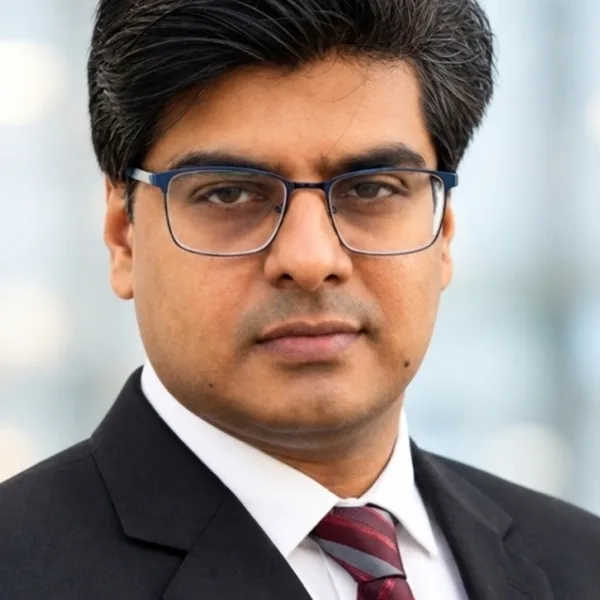
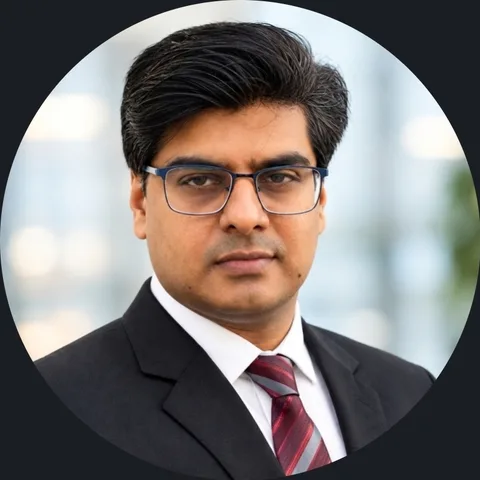
Team: centred three-card stack, round photos, new order
Claude-Session: https://claude.ai/code/session_01AbE5ecc2Cn8vJ6Anzxiuye

diff --git a/forgehype-qa/index.html b/forgehype-qa/index.html
@@ -21,7 +21,7 @@
 <link rel="preconnect" href="https://fonts.googleapis.com">
 <link rel="preconnect" href="https://fonts.gstatic.com" crossorigin>
 <link href="https://fonts.googleapis.com/css2?family=Bricolage+Grotesque:opsz,wght@12..96,300;12..96,500;12..96,600;12..96,700&family=Manrope:wght@400;500;600&family=Geist+Mono:wght@400;500&display=swap" rel="stylesheet">
-<link rel="stylesheet" href="assets/css/main.css?v=20261025k">
+<link rel="stylesheet" href="assets/css/main.css?v=20261025l">
 <script>document.documentElement.classList.add("js")</script>
 <script type="application/ld+json">
 {"@context": "https://schema.org", "@type": "ProfessionalService", "@id": "https://forgehype.qa/#business", "name": "ForgeHype", "legalName": "ForgeHype website and Management consultancy W.L.L.", "url": "https://forgehype.qa/", "logo": "https://forgehype.qa/assets/img/brand/logo.png", "image": "https://forgehype.qa/assets/img/og.jpg", "description": "Website design and digital growth consultancy in Doha, Qatar: websites and e-commerce, website content and brand media, SEO and AI visibility audits, automation and AI consultancy, brand identity and monthly growth advisory.", "telephone": "+97455879325", "email": "info@forgehype.qa", "foundingDate": "2026-10-12", "address": {"@type": "PostalAddress", "streetAddress": "Building 66, Street 950, Zone 24", "addressLocality": "Doha", "addressCountry": "QA"}, "areaServed": {"@type": "Country", "name": "Qatar"}, "sameAs": ["https://www.instagram.com/forgehypeqatar/"], "knowsLanguage": ["en", "ar"]}
@@ -265,17 +265,17 @@
       <p class="lowkey">Our team brings 14 years of GCC media production experience.</p>
     </div>
     <ul class="team-track" id="teamTrack" tabindex="0" aria-roledescription="carousel" aria-label="ForgeHype team. Swipe or use the arrow keys.">
-        <li class="tcard" data-pos="0"><figure><img src="assets/img/team/farzana-husain.webp?v=2" alt="Farzana Husain, Managing Director, ForgeHype" width="480" height="480" loading="lazy" decoding="async"><figcaption><span class="m-name">Farzana Husain</span><span class="m-role">Managing Director</span></figcaption></figure></li>
-        <li class="tcard" data-pos="1"><figure><img src="assets/img/team/adnan-mohammad.webp?v=2" alt="Adnan Mohammad, Creative Director, ForgeHype" width="480" height="480" loading="lazy" decoding="async"><figcaption><span class="m-name">Adnan Mohammad</span><span class="m-role">Creative Director</span></figcaption></figure></li>
-        <li class="tcard" data-pos="2"><figure><img src="assets/img/team/nishat-tasnim.webp?v=2" alt="Nishat Tasnim, Operations Lead, ForgeHype" width="480" height="480" loading="lazy" decoding="async"><figcaption><span class="m-name">Nishat Tasnim</span><span class="m-role">Operations Lead</span></figcaption></figure></li>
-        <li class="tcard" data-pos="2"><figure><img src="assets/img/team/tahrima-tony.webp?v=2" alt="Tahrima Tony, Lead Motion Designer, ForgeHype" width="480" height="480" loading="lazy" decoding="async"><figcaption><span class="m-name">Tahrima Tony</span><span class="m-role">Lead Motion Designer</span></figcaption></figure></li>
-        <li class="tcard" data-pos="2"><figure><img src="assets/img/team/sharia-tasnim.webp?v=2" alt="Sharia Tasnim, Lead Editor, ForgeHype" width="480" height="480" loading="lazy" decoding="async"><figcaption><span class="m-name">Sharia Tasnim</span><span class="m-role">Lead Editor</span></figcaption></figure></li>
-        <li class="tcard" data-pos="2"><figure><img src="assets/img/team/anjum-akter.webp?v=2" alt="Anjum Akter, Lead, Growth and Engagement, ForgeHype" width="480" height="480" loading="lazy" decoding="async"><figcaption><span class="m-name">Anjum Akter</span><span class="m-role">Lead, Growth &amp; Engagement</span></figcaption></figure></li>
-        <li class="tcard" data-pos="2"><figure><img src="assets/img/team/rakib-ahmad.webp?v=2" alt="Rakib Ahmad, Lead Video Editor, ForgeHype" width="480" height="480" loading="lazy" decoding="async"><figcaption><span class="m-name">Rakib Ahmad</span><span class="m-role">Lead Video Editor</span></figcaption></figure></li>
-        <li class="tcard" data-pos="2"><figure><span class="tc-initial" aria-hidden="true">N</span><figcaption><span class="m-name">Naim</span><span class="m-role">Lead, SEO &amp; AI Search</span></figcaption></figure></li>
-        <li class="tcard" data-pos="-1"><figure><img src="assets/img/team/arifur-rahman.webp?v=2" alt="Arifur Rahman, AI Agent and Automation Consultant, ForgeHype" width="480" height="480" loading="lazy" decoding="async"><figcaption><span class="m-name">Arifur Rahman</span><span class="m-role">AI Agent &amp; Automation Consultant</span></figcaption></figure></li>
+        <li class="tcard" data-pos="0"><figure><span class="tc-photo"><img src="assets/img/team/farzana-husain.webp?v=3" alt="Farzana Husain, Managing Director, ForgeHype" width="480" height="480" loading="lazy" decoding="async"></span><figcaption><span class="m-name">Farzana Husain</span><span class="m-role">Managing Director</span></figcaption></figure></li>
+        <li class="tcard" data-pos="1"><figure><span class="tc-photo"><img src="assets/img/team/adnan-mohammad.webp?v=3" alt="Adnan Mohammad, Creative Director, ForgeHype" width="480" height="480" loading="lazy" decoding="async"></span><figcaption><span class="m-name">Adnan Mohammad</span><span class="m-role">Creative Director</span></figcaption></figure></li>
+        <li class="tcard" data-pos="2"><figure><span class="tc-photo"><img src="assets/img/team/sharia-tasnim.webp?v=3" alt="Sharia Tasnim, Lead Editor, ForgeHype" width="480" height="480" loading="lazy" decoding="async"></span><figcaption><span class="m-name">Sharia Tasnim</span><span class="m-role">Lead Editor</span></figcaption></figure></li>
+        <li class="tcard" data-pos="2"><figure><span class="tc-photo"><img src="assets/img/team/tahrima-tony.webp?v=3" alt="Tahrima Tony, Lead Motion Designer, ForgeHype" width="480" height="480" loading="lazy" decoding="async"></span><figcaption><span class="m-name">Tahrima Tony</span><span class="m-role">Lead Motion Designer</span></figcaption></figure></li>
+        <li class="tcard" data-pos="2"><figure><span class="tc-photo"><img src="assets/img/team/rakib-ahmad.webp?v=3" alt="Rakib Ahmad, Lead Video Editor, ForgeHype" width="480" height="480" loading="lazy" decoding="async"></span><figcaption><span class="m-name">Rakib Ahmad</span><span class="m-role">Lead Video Editor</span></figcaption></figure></li>
+        <li class="tcard" data-pos="-2"><figure><span class="tc-photo"><img src="assets/img/team/anjum-akter.webp?v=3" alt="Anjum Akter, Lead, Growth and Engagement, ForgeHype" width="480" height="480" loading="lazy" decoding="async"></span><figcaption><span class="m-name">Anjum Akter</span><span class="m-role">Lead, Growth &amp; Engagement</span></figcaption></figure></li>
+        <li class="tcard" data-pos="-2"><figure><span class="tc-photo"><img src="assets/img/team/nishat-tasnim.webp?v=3" alt="Nishat Tasnim, Operations Lead, ForgeHype" width="480" height="480" loading="lazy" decoding="async"></span><figcaption><span class="m-name">Nishat Tasnim</span><span class="m-role">Operations Lead</span></figcaption></figure></li>
+        <li class="tcard" data-pos="-2"><figure><span class="tc-photo"><span class="tc-initial" aria-hidden="true">N</span></span><figcaption><span class="m-name">Naim</span><span class="m-role">Lead, SEO &amp; AI Search</span></figcaption></figure></li>
+        <li class="tcard" data-pos="-1"><figure><span class="tc-photo"><img src="assets/img/team/arifur-rahman.webp?v=3" alt="Arifur Rahman, AI Agent and Automation Consultant, ForgeHype" width="480" height="480" loading="lazy" decoding="async"></span><figcaption><span class="m-name">Arifur Rahman</span><span class="m-role">AI Agent &amp; Automation Consultant</span></figcaption></figure></li>
     </ul>
-    <div class="team-dots"><button type="button" class="team-dot on" aria-label="Show Farzana Husain"></button><button type="button" class="team-dot" aria-label="Show Adnan Mohammad"></button><button type="button" class="team-dot" aria-label="Show Nishat Tasnim"></button><button type="button" class="team-dot" aria-label="Show Tahrima Tony"></button><button type="button" class="team-dot" aria-label="Show Sharia Tasnim"></button><button type="button" class="team-dot" aria-label="Show Anjum Akter"></button><button type="button" class="team-dot" aria-label="Show Rakib Ahmad"></button><button type="button" class="team-dot" aria-label="Show Naim"></button><button type="button" class="team-dot" aria-label="Show Arifur Rahman"></button></div>
+    <div class="team-dots"><button type="button" class="team-dot on" aria-label="Show Farzana Husain"></button><button type="button" class="team-dot" aria-label="Show Adnan Mohammad"></button><button type="button" class="team-dot" aria-label="Show Sharia Tasnim"></button><button type="button" class="team-dot" aria-label="Show Tahrima Tony"></button><button type="button" class="team-dot" aria-label="Show Rakib Ahmad"></button><button type="button" class="team-dot" aria-label="Show Anjum Akter"></button><button type="button" class="team-dot" aria-label="Show Nishat Tasnim"></button><button type="button" class="team-dot" aria-label="Show Naim"></button><button type="button" class="team-dot" aria-label="Show Arifur Rahman"></button></div>
   </div>
 </section>
 
@@ -559,6 +559,6 @@
 
 <a class="wa-float" id="waFloat" href="https://wa.me/97455879325" target="_blank" rel="noopener" aria-label="WhatsApp us"><svg viewBox="0 0 24 24" fill="none" stroke="currentColor" stroke-width="1.8" stroke-linecap="round" stroke-linejoin="round" aria-hidden="true"><path d="M21 12a9 9 0 0 1-13.3 7.9L3 21l1.1-4.6A9 9 0 1 1 21 12z"/></svg><span class="lbl">WhatsApp us</span></a>
 
-<script src="assets/js/main.js?v=20261025d" defer></script>
+<script src="assets/js/main.js?v=20261025e" defer></script>
 </body>
 </html>

diff --git a/forgehype-qa/assets/css/main.css b/forgehype-qa/assets/css/main.css
@@ -684,28 +684,32 @@ html.js .stack-text .answer:not(.open){display:-webkit-box;-webkit-line-clamp:1;
 }
 @media (prefers-reduced-motion:reduce){.reel{transition:none}}
 
-/* team: gliding square cards, big card left, next one peeking */
+/* team: centred card stack, round photo above, name and title below */
 .team-sec{padding-block:var(--s-6) var(--s-8);overflow-x:clip}
 .team-head{display:grid;gap:var(--s-3);justify-items:start}
-.team-track{--cw:78%;--gap:14px;--s2:.8;position:relative;list-style:none;margin:var(--s-6) 0 0;padding:0;aspect-ratio:100/78;touch-action:pan-y;outline:none;user-select:none;-webkit-user-select:none}
+.team-track{--cw:min(68vw,300px);position:relative;list-style:none;margin:var(--s-6) 0 0;padding:0;height:calc(var(--cw)*4/3 + 24px);touch-action:pan-y;outline:none;user-select:none;-webkit-user-select:none}
 .team-track:focus-visible{outline:2px solid var(--accent);outline-offset:8px;border-radius:28px}
-.tcard{--x:0%;--s:1;position:absolute;left:0;bottom:0;width:var(--cw);aspect-ratio:1;transform-origin:left bottom;transform:translateX(var(--x)) scale(var(--s));opacity:0;transition:transform .95s cubic-bezier(.22,.61,.36,1),opacity .95s cubic-bezier(.22,.61,.36,1)}
-.tcard figure{margin:0;position:relative;width:100%;height:100%;border-radius:24px;overflow:hidden;background:linear-gradient(150deg,#2a211b,#14110f);box-shadow:0 26px 50px -24px rgba(50,25,8,.45)}
-.tcard img{width:100%;height:100%;object-fit:cover;display:block}
-.tcard .tc-initial{position:absolute;inset:0;display:grid;place-items:center;font-family:var(--font-display);font-weight:600;font-size:clamp(4rem,20vw,8rem);color:var(--accent)}
-.tcard figcaption{position:absolute;inset-inline:0;bottom:0;padding:var(--s-6) var(--s-4) var(--s-4);display:grid;gap:.15rem;background:linear-gradient(to top,rgba(10,8,7,.85),rgba(10,8,7,0));color:#fff}
+.tcard{--x:0%;--r:0deg;--s:1;position:absolute;left:50%;top:12px;width:var(--cw);aspect-ratio:3/4;margin-left:calc(var(--cw)/-2);transform:translateX(var(--x)) rotate(var(--r)) scale(var(--s));opacity:0;transition:transform .95s cubic-bezier(.22,.61,.36,1),opacity .95s cubic-bezier(.22,.61,.36,1),filter .95s cubic-bezier(.22,.61,.36,1);cursor:pointer}
+.tcard figure{margin:0;height:100%;display:grid;grid-template-rows:2fr 1fr;border-radius:26px;overflow:hidden;background:#14110f;border:1px solid rgba(255,255,255,.08);box-shadow:0 30px 60px -22px rgba(50,25,8,.5),0 8px 20px -10px rgba(0,0,0,.3)}
+.tc-photo{display:grid;place-items:end center;padding:12% 12% 0;min-height:0}
+.tc-photo img,.tc-photo .tc-initial{width:auto;height:100%;max-width:100%;aspect-ratio:1;border-radius:50%;object-fit:cover;display:block;box-shadow:0 0 0 2px var(--accent)}
+.tc-photo .tc-initial{display:grid;place-items:center;font-family:var(--font-display);font-weight:600;font-size:clamp(3rem,14vw,5rem);color:var(--accent);background:radial-gradient(circle at 50% 40%,#3a2417,#14110f)}
+.tcard figcaption{display:grid;align-content:center;justify-items:center;text-align:center;gap:.25rem;padding:0 var(--s-4);color:#fff}
 .tcard .m-name{font-family:var(--font-display);font-weight:600;font-size:1.25rem;line-height:1.15}
-.tcard .m-role{font-size:var(--fs-sm);color:rgba(255,255,255,.78);line-height:1.3}
-.tcard[data-pos="0"]{opacity:1;z-index:2}
-.tcard[data-pos="1"]{--x:calc(100% + var(--gap));--s:var(--s2);opacity:1;z-index:1}
-.tcard[data-pos="1"] figcaption{opacity:.0}
-.tcard[data-pos="2"]{--x:calc(100% + 100% * var(--s2) + var(--gap) * 2);--s:var(--s2)}
-.tcard[data-pos="-1"]{--x:calc(-100% - var(--gap))}
-.team-dots{display:flex;flex-wrap:wrap;gap:.45rem;margin-block-start:var(--s-5)}
+.tcard .m-role{font-size:var(--fs-sm);color:rgba(255,255,255,.7);line-height:1.3}
+.tcard[data-pos="0"]{opacity:1;z-index:3;cursor:default}
+.tcard[data-pos="1"]{--x:34%;--r:6deg;--s:.86;opacity:.5;z-index:2;filter:saturate(.5) brightness(.8)}
+.tcard[data-pos="-1"]{--x:-34%;--r:-6deg;--s:.86;opacity:.5;z-index:2;filter:saturate(.5) brightness(.8)}
+.tcard[data-pos="2"]{--x:50%;--s:.7;z-index:1}
+.tcard[data-pos="-2"]{--x:-50%;--s:.7;z-index:1}
+.team-dots{display:flex;justify-content:center;flex-wrap:wrap;gap:.45rem;margin-block-start:var(--s-5)}
 .team-dot{width:7px;height:7px;border-radius:50%;border:0;padding:0;background:rgba(20,17,15,.2);cursor:pointer;transition:width .4s,background .4s}
 .team-dot.on{width:22px;border-radius:7px;background:var(--accent)}
 @media (min-width:900px){
-  .team-track{--cw:min(40%,440px);aspect-ratio:auto;height:min(40vw,440px)}
-  .tcard[data-pos="1"] figcaption{opacity:1}
+  .team-track{--cw:300px}
+  .tcard[data-pos="1"]{--x:78%;--r:0deg;--s:.82;opacity:.6}
+  .tcard[data-pos="-1"]{--x:-78%;--r:0deg;--s:.82;opacity:.6}
+  .tcard[data-pos="2"]{--x:120%}
+  .tcard[data-pos="-2"]{--x:-120%}
 }
 @media (prefers-reduced-motion:reduce){.tcard{transition:none}}

diff --git a/forgehype-qa/faq.html b/forgehype-qa/faq.html
@@ -21,7 +21,7 @@
 <link rel="preconnect" href="https://fonts.googleapis.com">
 <link rel="preconnect" href="https://fonts.gstatic.com" crossorigin>
 <link href="https://fonts.googleapis.com/css2?family=Bricolage+Grotesque:opsz,wght@12..96,300;12..96,500;12..96,600;12..96,700&family=Manrope:wght@400;500;600&family=Geist+Mono:wght@400;500&display=swap" rel="stylesheet">
-<link rel="stylesheet" href="assets/css/main.css?v=20261025k">
+<link rel="stylesheet" href="assets/css/main.css?v=20261025l">
 <script>document.documentElement.classList.add("js")</script>
 <script type="application/ld+json">
 {"@context": "https://schema.org", "@graph": [{"@type": "FAQPage", "mainEntity": [{"@type": "Question", "name": "What does ForgeHype do?", "acceptedAnswer": {"@type": "Answer", "text": "Website design and digital growth consultancy: websites and e-commerce, website content and brand media, SEO and AI visibility audits, automation and AI consultancy, brand identity and monthly advisory. We advise and report; your team runs the day-to-day work."}}, {"@type": "Question", "name": "How much does it cost?", "acceptedAnswer": {"@type": "Answer", "text": "Every scope is built around your business, so we quote after the free consultation. No standard packages."}}, {"@type": "Question", "name": "How fast can you deliver content?", "acceptedAnswer": {"@type": "Answer", "text": "Days from brief to delivery, not weeks. From 10 to 60 videos a month."}}, {"@type": "Question", "name": "What does the free consultation cover?", "acceptedAnswer": {"@type": "Answer", "text": "Your website, search presence, content and brand. You get a clear list of what to fix first."}}, {"@type": "Question", "name": "Do you work outside Qatar?", "acceptedAnswer": {"@type": "Answer", "text": "Yes. We are based in Doha and work with clients outside Qatar on Teams and WhatsApp."}}, {"@type": "Question", "name": "Can you automate bookings and replies?", "acceptedAnswer": {"@type": "Answer", "text": "Yes. We plan AI agents for WhatsApp and your website that answer, book, take orders and follow up, connect them to your site, and train your team to run them."}}, {"@type": "Question", "name": "Do you work in Arabic?", "acceptedAnswer": {"@type": "Answer", "text": "Yes. Bilingual sites, menus and content, built right to left where it matters."}}, {"@type": "Question", "name": "What is monthly digital growth advisory?", "acceptedAnswer": {"@type": "Answer", "text": "Each month we review your numbers, research what is working in your market, report clear next steps and train your team."}}]}, {"@type": "BreadcrumbList", "itemListElement": [{"@type": "ListItem", "position": 1, "name": "Home", "item": "https://forgehype.qa/"}, {"@type": "ListItem", "position": 2, "name": "FAQ", "item": "https://forgehype.qa/faq.html"}]}]}

diff --git a/forgehype-qa/services/website-ecommerce.html b/forgehype-qa/services/website-ecommerce.html
@@ -21,7 +21,7 @@
 <link rel="preconnect" href="https://fonts.googleapis.com">
 <link rel="preconnect" href="https://fonts.gstatic.com" crossorigin>
 <link href="https://fonts.googleapis.com/css2?family=Bricolage+Grotesque:opsz,wght@12..96,300;12..96,500;12..96,600;12..96,700&family=Manrope:wght@400;500;600&family=Geist+Mono:wght@400;500&display=swap" rel="stylesheet">
-<link rel="stylesheet" href="../assets/css/main.css?v=20261025k">
+<link rel="stylesheet" href="../assets/css/main.css?v=20261025l">
 <script>document.documentElement.classList.add("js")</script>
 <script type="application/ld+json">
 {"@context": "https://schema.org", "@graph": [{"@type": "Service", "@id": "https://forgehype.qa/services/website-ecommerce.html#service", "name": "Website design and e-commerce", "serviceType": "Website design and e-commerce", "description": "Custom websites and online stores for Qatar businesses, fast on mobile and built to turn visits into enquiries and orders. ForgeHype, Doha.", "url": "https://forgehype.qa/services/website-ecommerce.html", "areaServed": {"@type": "Country", "name": "Qatar"}, "provider": {"@id": "https://forgehype.qa/#business"}}, {"@type": "BreadcrumbList", "itemListElement": [{"@type": "ListItem", "position": 1, "name": "Home", "item": "https://forgehype.qa/"}, {"@type": "ListItem", "position": 2, "name": "Services", "item": "https://forgehype.qa/#services"}, {"@type": "ListItem", "position": 3, "name": "Website design and e-commerce", "item": "https://forgehype.qa/services/website-ecommerce.html"}]}, {"@type": "FAQPage", "mainEntity": [{"@type": "Question", "name": "What does the free consultation cover?", "acceptedAnswer": {"@type": "Answer", "text": "Your website, search presence, content and brand. You get a clear list of what to fix first."}}, {"@type": "Question", "name": "How much does it cost?", "acceptedAnswer": {"@type": "Answer", "text": "Every scope is built around your business, so we quote after the free consultation. No standard packages."}}, {"@type": "Question", "name": "What is monthly support?", "acceptedAnswer": {"@type": "Answer", "text": "Monthly digital growth advisory: we review your numbers, research what is working, report clear next steps and train your team."}}, {"@type": "Question", "name": "What does ForgeHype do?", "acceptedAnswer": {"@type": "Answer", "text": "Website design and digital growth consultancy: websites and e-commerce, website content and brand media, SEO and AI visibility audits, automation and AI consultancy, brand identity and monthly advisory. We advise and report; your team runs the day-to-day work."}}]}]}

diff --git a/forgehype-qa/services/brand-media-kit.html b/forgehype-qa/services/brand-media-kit.html
@@ -21,7 +21,7 @@
 <link rel="preconnect" href="https://fonts.googleapis.com">
 <link rel="preconnect" href="https://fonts.gstatic.com" crossorigin>
 <link href="https://fonts.googleapis.com/css2?family=Bricolage+Grotesque:opsz,wght@12..96,300;12..96,500;12..96,600;12..96,700&family=Manrope:wght@400;500;600&family=Geist+Mono:wght@400;500&display=swap" rel="stylesheet">
-<link rel="stylesheet" href="../assets/css/main.css?v=20261025k">
+<link rel="stylesheet" href="../assets/css/main.css?v=20261025l">
 <script>document.documentElement.classList.add("js")</script>
 <script type="application/ld+json">
 {"@context": "https://schema.org", "@graph": [{"@type": "Service", "@id": "https://forgehype.qa/services/brand-media-kit.html#service", "name": "Brand identity and media kits", "serviceType": "Brand identity and media kits", "description": "One consistent identity across everything customers see and hold: logo, colours, menus, catalogs, packaging and a brand guide. ForgeHype, Doha.", "url": "https://forgehype.qa/services/brand-media-kit.html", "areaServed": {"@type": "Country", "name": "Qatar"}, "provider": {"@id": "https://forgehype.qa/#business"}}, {"@type": "BreadcrumbList", "itemListElement": [{"@type": "ListItem", "position": 1, "name": "Home", "item": "https://forgehype.qa/"}, {"@type": "ListItem", "position": 2, "name": "Services", "item": "https://forgehype.qa/#services"}, {"@type": "ListItem", "position": 3, "name": "Brand identity and media kits", "item": "https://forgehype.qa/services/brand-media-kit.html"}]}, {"@type": "FAQPage", "mainEntity": [{"@type": "Question", "name": "What does the free consultation cover?", "acceptedAnswer": {"@type": "Answer", "text": "Your website, search presence, content and brand. You get a clear list of what to fix first."}}, {"@type": "Question", "name": "How much does it cost?", "acceptedAnswer": {"@type": "Answer", "text": "Every scope is built around your business, so we quote after the free consultation. No standard packages."}}, {"@type": "Question", "name": "What is monthly support?", "acceptedAnswer": {"@type": "Answer", "text": "Monthly digital growth advisory: we review your numbers, research what is working, report clear next steps and train your team."}}, {"@type": "Question", "name": "What does ForgeHype do?", "acceptedAnswer": {"@type": "Answer", "text": "Website design and digital growth consultancy: websites and e-commerce, website content and brand media, SEO and AI visibility audits, automation and AI consultancy, brand identity and monthly advisory. We advise and report; your team runs the day-to-day work."}}]}]}

diff --git a/forgehype-qa/services/search-ai-visibility.html b/forgehype-qa/services/search-ai-visibility.html
@@ -21,7 +21,7 @@
 <link rel="preconnect" href="https://fonts.googleapis.com">
 <link rel="preconnect" href="https://fonts.gstatic.com" crossorigin>
 <link href="https://fonts.googleapis.com/css2?family=Bricolage+Grotesque:opsz,wght@12..96,300;12..96,500;12..96,600;12..96,700&family=Manrope:wght@400;500;600&family=Geist+Mono:wght@400;500&display=swap" rel="stylesheet">
-<link rel="stylesheet" href="../assets/css/main.css?v=20261025k">
+<link rel="stylesheet" href="../assets/css/main.css?v=20261025l">
 <script>document.documentElement.classList.add("js")</script>
 <script type="application/ld+json">
 {"@context": "https://schema.org", "@graph": [{"@type": "Service", "@id": "https://forgehype.qa/services/search-ai-visibility.html#service", "name": "SEO and AI visibility audits", "serviceType": "SEO and AI visibility audits", "description": "Audits of your website, Google profile and listings, with a clear report your team can act on to get found on Google and AI.", "url": "https://forgehype.qa/services/search-ai-visibility.html", "areaServed": {"@type": "Country", "name": "Qatar"}, "provider": {"@id": "https://forgehype.qa/#business"}}, {"@type": "BreadcrumbList", "itemListElement": [{"@type": "ListItem", "position": 1, "name": "Home", "item": "https://forgehype.qa/"}, {"@type": "ListItem", "position": 2, "name": "Services", "item": "https://forgehype.qa/#services"}, {"@type": "ListItem", "position": 3, "name": "SEO and AI visibility audits", "item": "https://forgehype.qa/services/search-ai-visibility.html"}]}, {"@type": "FAQPage", "mainEntity": [{"@type": "Question", "name": "What does the free consultation cover?", "acceptedAnswer": {"@type": "Answer", "text": "Your website, search presence, content and brand. You get a clear list of what to fix first."}}, {"@type": "Question", "name": "How much does it cost?", "acceptedAnswer": {"@type": "Answer", "text": "Every scope is built around your business, so we quote after the free consultation. No standard packages."}}, {"@type": "Question", "name": "What is monthly support?", "acceptedAnswer": {"@type": "Answer", "text": "Monthly digital growth advisory: we review your numbers, research what is working, report clear next steps and train your team."}}, {"@type": "Question", "name": "What does ForgeHype do?", "acceptedAnswer": {"@type": "Answer", "text": "Website design and digital growth consultancy: websites and e-commerce, website content and brand media, SEO and AI visibility audits, automation and AI consultancy, brand identity and monthly advisory. We advise and report; your team runs the day-to-day work."}}]}]}

diff --git a/forgehype-qa/services/monthly-support.html b/forgehype-qa/services/monthly-support.html
@@ -21,7 +21,7 @@
 <link rel="preconnect" href="https://fonts.googleapis.com">
 <link rel="preconnect" href="https://fonts.gstatic.com" crossorigin>
 <link href="https://fonts.googleapis.com/css2?family=Bricolage+Grotesque:opsz,wght@12..96,300;12..96,500;12..96,600;12..96,700&family=Manrope:wght@400;500;600&family=Geist+Mono:wght@400;500&display=swap" rel="stylesheet">
-<link rel="stylesheet" href="../assets/css/main.css?v=20261025k">
+<link rel="stylesheet" href="../assets/css/main.css?v=20261025l">
 <script>document.documentElement.classList.add("js")</script>
 <script type="application/ld+json">
 {"@context": "https://schema.org", "@graph": [{"@type": "Service", "@id": "https://forgehype.qa/services/monthly-support.html#service", "name": "Monthly digital growth advisory", "serviceType": "Monthly digital growth advisory", "description": "Each month we review your numbers, research what works in your market and report clear next steps, with training for your team.", "url": "https://forgehype.qa/services/monthly-support.html", "areaServed": {"@type": "Country", "name": "Qatar"}, "provider": {"@id": "https://forgehype.qa/#business"}}, {"@type": "BreadcrumbList", "itemListElement": [{"@type": "ListItem", "position": 1, "name": "Home", "item": "https://forgehype.qa/"}, {"@type": "ListItem", "position": 2, "name": "Services", "item": "https://forgehype.qa/#services"}, {"@type": "ListItem", "position": 3, "name": "Monthly digital growth advisory", "item": "https://forgehype.qa/services/monthly-support.html"}]}, {"@type": "FAQPage", "mainEntity": [{"@type": "Question", "name": "What does the free consultation cover?", "acceptedAnswer": {"@type": "Answer", "text": "Your website, search presence, content and brand. You get a clear list of what to fix first."}}, {"@type": "Question", "name": "How much does it cost?", "acceptedAnswer": {"@type": "Answer", "text": "Every scope is built around your business, so we quote after the free consultation. No standard packages."}}, {"@type": "Question", "name": "What is monthly support?", "acceptedAnswer": {"@type": "Answer", "text": "Monthly digital growth advisory: we review your numbers, research what is working, report clear next steps and train your team."}}, {"@type": "Question", "name": "What does ForgeHype do?", "acceptedAnswer": {"@type": "Answer", "text": "Website design and digital growth consultancy: websites and e-commerce, website content and brand media, SEO and AI visibility audits, automation and AI consultancy, brand identity and monthly advisory. We advise and report; your team runs the day-to-day work."}}]}]}

diff --git a/forgehype-qa/services/ai-automation-apps.html b/forgehype-qa/services/ai-automation-apps.html
@@ -21,7 +21,7 @@
 <link rel="preconnect" href="https://fonts.googleapis.com">
 <link rel="preconnect" href="https://fonts.gstatic.com" crossorigin>
 <link href="https://fonts.googleapis.com/css2?family=Bricolage+Grotesque:opsz,wght@12..96,300;12..96,500;12..96,600;12..96,700&family=Manrope:wght@400;500;600&family=Geist+Mono:wght@400;500&display=swap" rel="stylesheet">
-<link rel="stylesheet" href="../assets/css/main.css?v=20261025k">
+<link rel="stylesheet" href="../assets/css/main.css?v=20261025l">
 <script>document.documentElement.classList.add("js")</script>
 <script type="application/ld+json">
 {"@context": "https://schema.org", "@graph": [{"@type": "Service", "@id": "https://forgehype.qa/services/ai-automation-apps.html#service", "name": "Automation and AI consultancy", "serviceType": "Automation and AI consultancy", "description": "We map your routines, recommend the right tools and plan automations and AI agents your team can run. ForgeHype, Doha.", "url": "https://forgehype.qa/services/ai-automation-apps.html", "areaServed": {"@type": "Country", "name": "Qatar"}, "provider": {"@id": "https://forgehype.qa/#business"}}, {"@type": "BreadcrumbList", "itemListElement": [{"@type": "ListItem", "position": 1, "name": "Home", "item": "https://forgehype.qa/"}, {"@type": "ListItem", "position": 2, "name": "Services", "item": "https://forgehype.qa/#services"}, {"@type": "ListItem", "position": 3, "name": "Automation and AI consultancy", "item": "https://forgehype.qa/services/ai-automation-apps.html"}]}, {"@type": "FAQPage", "mainEntity": [{"@type": "Question", "name": "What does the free consultation cover?", "acceptedAnswer": {"@type": "Answer", "text": "Your website, search presence, content and brand. You get a clear list of what to fix first."}}, {"@type": "Question", "name": "How much does it cost?", "acceptedAnswer": {"@type": "Answer", "text": "Every scope is built around your business, so we quote after the free consultation. No standard packages."}}, {"@type": "Question", "name": "What is monthly support?", "acceptedAnswer": {"@type": "Answer", "text": "Monthly digital growth advisory: we review your numbers, research what is working, report clear next steps and train your team."}}, {"@type": "Question", "name": "What does ForgeHype do?", "acceptedAnswer": {"@type": "Answer", "text": "Website design and digital growth consultancy: websites and e-commerce, website content and brand media, SEO and AI visibility audits, automation and AI consultancy, brand identity and monthly advisory. We advise and report; your team runs the day-to-day work."}}]}]}

diff --git a/forgehype-qa/services/media-production.html b/forgehype-qa/services/media-production.html
@@ -21,7 +21,7 @@
 <link rel="preconnect" href="https://fonts.googleapis.com">
 <link rel="preconnect" href="https://fonts.gstatic.com" crossorigin>
 <link href="https://fonts.googleapis.com/css2?family=Bricolage+Grotesque:opsz,wght@12..96,300;12..96,500;12..96,600;12..96,700&family=Manrope:wght@400;500;600&family=Geist+Mono:wght@400;500&display=swap" rel="stylesheet">
-<link rel="stylesheet" href="../assets/css/main.css?v=20261025k">
+<link rel="stylesheet" href="../assets/css/main.css?v=20261025l">
 <script>document.documentElement.classList.add("js")</script>
 <script type="application/ld+json">
 {"@context": "https://schema.org", "@graph": [{"@type": "Service", "@id": "https://forgehype.qa/services/media-production.html#service", "name": "Website content and brand media", "serviceType": "Website content and brand media", "description": "Reels, UGC, product demos and brand films made for your website and brand, at the volume you need. ForgeHype, Doha.", "url": "https://forgehype.qa/services/media-production.html", "areaServed": {"@type": "Country", "name": "Qatar"}, "provider": {"@id": "https://forgehype.qa/#business"}}, {"@type": "BreadcrumbList", "itemListElement": [{"@type": "ListItem", "position": 1, "name": "Home", "item": "https://forgehype.qa/"}, {"@type": "ListItem", "position": 2, "name": "Services", "item": "https://forgehype.qa/#services"}, {"@type": "ListItem", "position": 3, "name": "Website content and brand media", "item": "https://forgehype.qa/services/media-production.html"}]}, {"@type": "FAQPage", "mainEntity": [{"@type": "Question", "name": "What does the free consultation cover?", "acceptedAnswer": {"@type": "Answer", "text": "Your website, search presence, content and brand. You get a clear list of what to fix first."}}, {"@type": "Question", "name": "How much does it cost?", "acceptedAnswer": {"@type": "Answer", "text": "Every scope is built around your business, so we quote after the free consultation. No standard packages."}}, {"@type": "Question", "name": "What is monthly support?", "acceptedAnswer": {"@type": "Answer", "text": "Monthly digital growth advisory: we review your numbers, research what is working, report clear next steps and train your team."}}, {"@type": "Question", "name": "What does ForgeHype do?", "acceptedAnswer": {"@type": "Answer", "text": "Website design and digital growth consultancy: websites and e-commerce, website content and brand media, SEO and AI visibility audits, automation and AI consultancy, brand identity and monthly advisory. We advise and report; your team runs the day-to-day work."}}]}]}

diff --git a/forgehype-qa/assets/js/main.js b/forgehype-qa/assets/js/main.js
@@ -743,7 +743,7 @@
   layout();
 })();
 
-/* team: glides one card every 3 s, swipe to move, pauses while touched or hovered */
+/* team: centred stack, glides one card every 3 s, swipe to move, pauses while touched or hovered */
 (() => {
   const track = document.getElementById('teamTrack');
   if (!track) return;
@@ -753,8 +753,8 @@
   let cur = 0, inView = false, hold = false, resumeAt = 0;
   const layout = () => {
     cards.forEach((el, i) => {
-      let d = (i - cur + n) % n; if (d > n - 2) d -= n;
-      el.dataset.pos = d < -1 ? -1 : d > 2 ? 2 : d;
+      let d = (i - cur + n) % n; if (d > n / 2) d -= n;
+      el.dataset.pos = Math.max(-2, Math.min(2, d));
       el.setAttribute('aria-hidden', String(d !== 0));
     });
     dots.forEach((d, i) => d.classList.toggle('on', i === cur));
@@ -774,7 +774,7 @@
     if (e.key === 'ArrowLeft') { e.preventDefault(); go(-1); }
   });
   dots.forEach((d, i) => d.addEventListener('click', () => { cur = i; layout(); pause(); }));
-  cards.forEach((el, i) => el.addEventListener('click', () => { if (el.dataset.pos === '1') { go(1); pause(); } }));
+  cards.forEach(el => el.addEventListener('click', () => { const d = +el.dataset.pos; if (d === 1 || d === -1) { go(d); pause(); } }));
   let sx = 0, sy = 0, down = false;
   track.addEventListener('pointerdown', e => { down = true; sx = e.clientX; sy = e.clientY; pause(); });
   track.addEventListener('pointerup', e => {

diff --git a/forgehype-qa/about-forgehype.html b/forgehype-qa/about-forgehype.html
@@ -21,7 +21,7 @@
 <link rel="preconnect" href="https://fonts.googleapis.com">
 <link rel="preconnect" href="https://fonts.gstatic.com" crossorigin>
 <link href="https://fonts.googleapis.com/css2?family=Bricolage+Grotesque:opsz,wght@12..96,300;12..96,500;12..96,600;12..96,700&family=Manrope:wght@400;500;600&family=Geist+Mono:wght@400;500&display=swap" rel="stylesheet">
-<link rel="stylesheet" href="assets/css/main.css?v=20261025k">
+<link rel="stylesheet" href="assets/css/main.css?v=20261025l">
 <script>document.documentElement.classList.add("js")</script>
 <script type="application/ld+json">
 {"@context": "https://schema.org", "@graph": [{"@type": "AboutPage", "url": "https://forgehype.qa/about-forgehype.html", "name": "About ForgeHype: key facts", "about": {"@id": "https://forgehype.qa/#business"}}, {"@type": "BreadcrumbList", "itemListElement": [{"@type": "ListItem", "position": 1, "name": "Home", "item": "https://forgehype.qa/"}, {"@type": "ListItem", "position": 2, "name": "Key facts", "item": "https://forgehype.qa/about-forgehype.html"}]}]}
